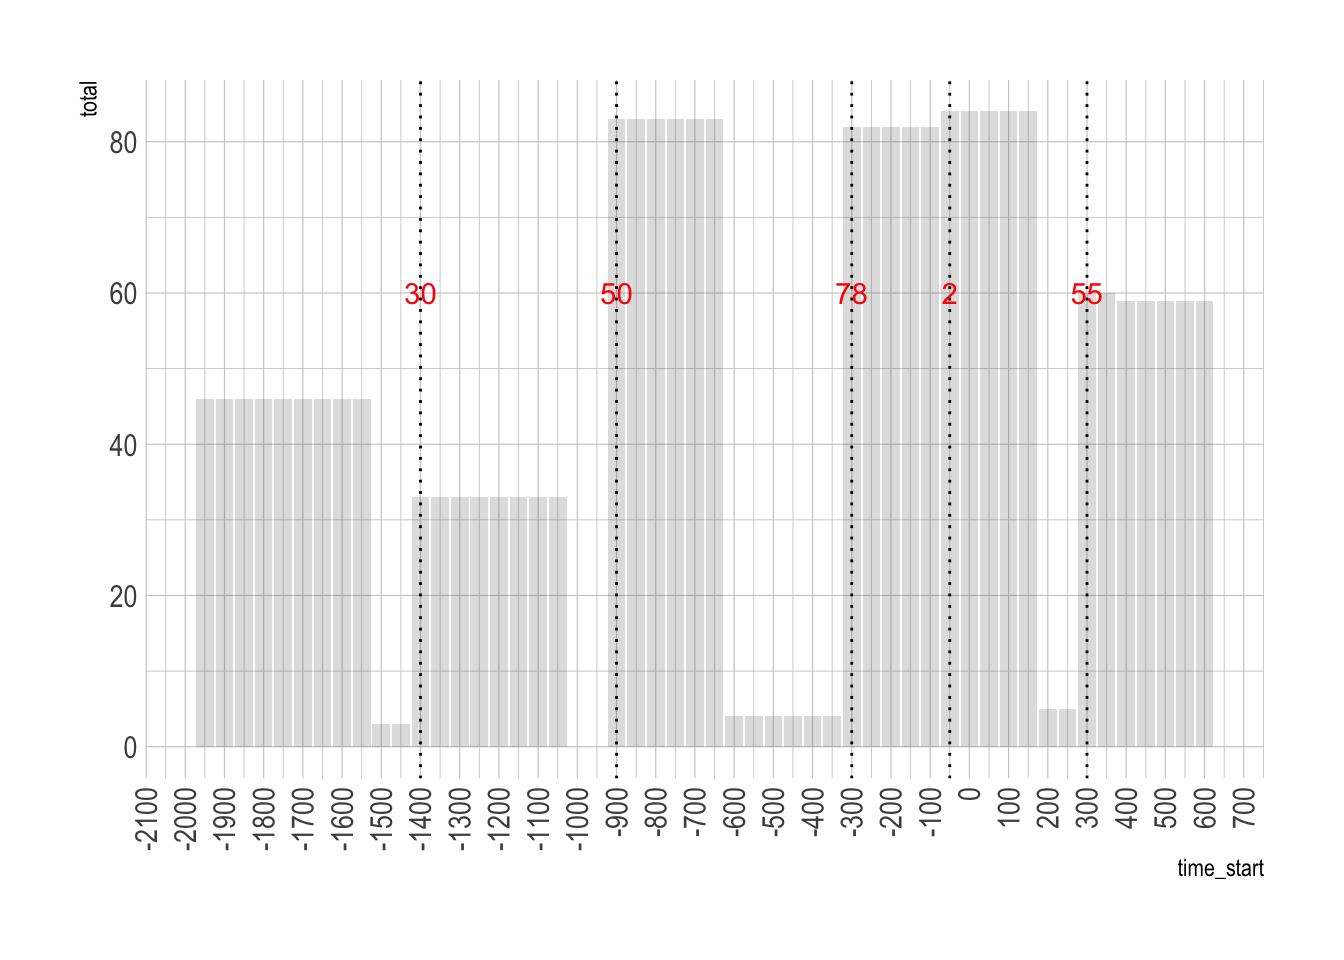
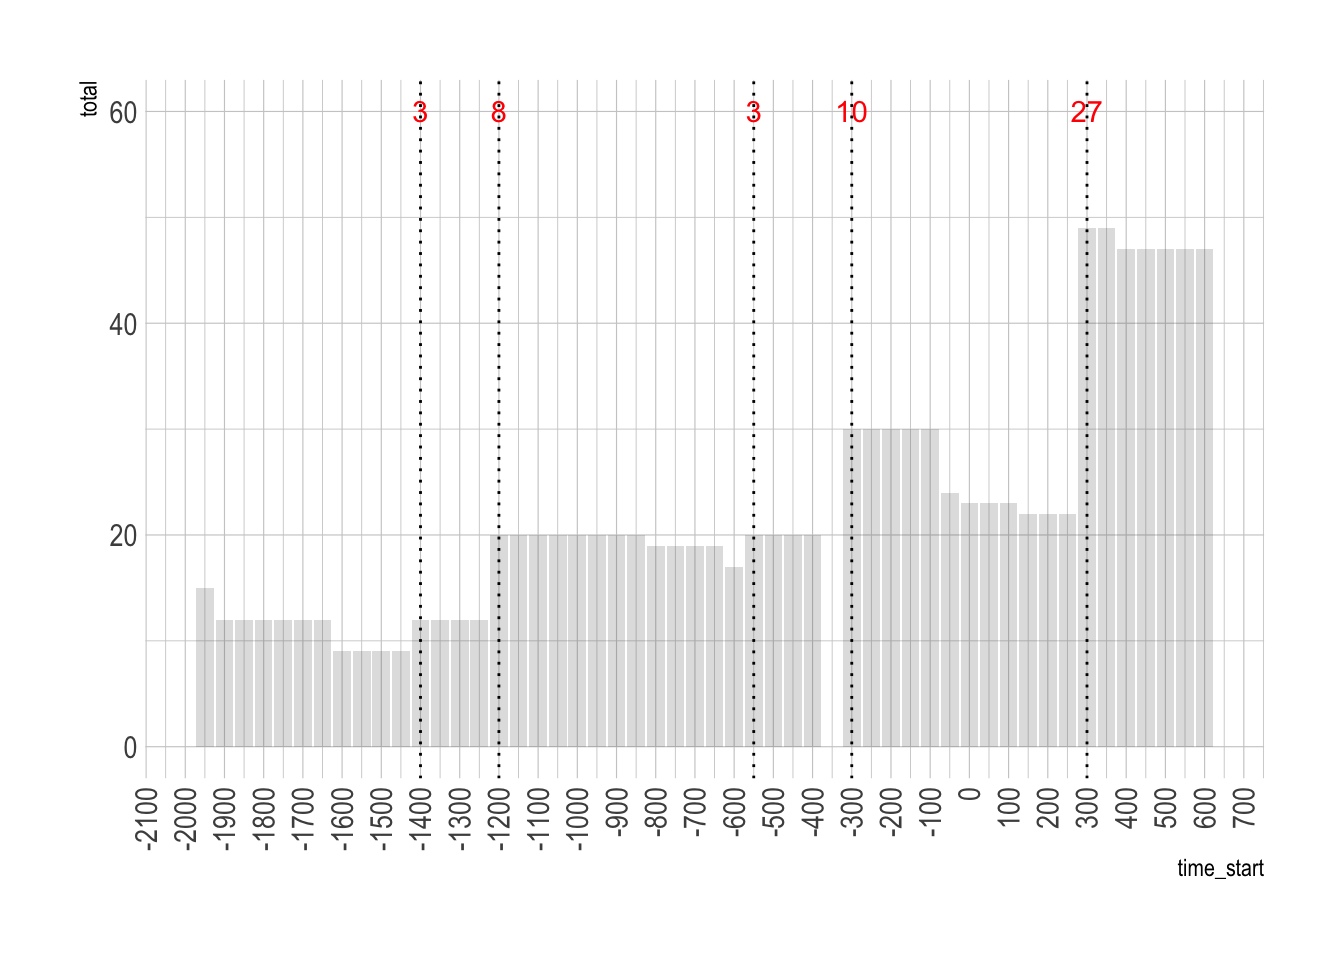
commit

diff --git a/03-demography/demo.html b/03-demography/demo.html
@@ -165,7 +165,7 @@ code span.wa { color: #60a0b0; font-weight: bold; font-style: italic; } /* Warni
 <details>
 <summary>Code</summary>
 <div class="sourceCode cell-code" id="cb2"><pre class="sourceCode r code-with-copy"><code class="sourceCode r"><span id="cb2-1"><a href="#cb2-1" aria-hidden="true" tabindex="-1"></a><span class="co"># load data</span></span>
-<span id="cb2-2"><a href="#cb2-2" aria-hidden="true" tabindex="-1"></a>sites <span class="ot">=</span> <span class="fu">readRDS</span>(<span class="st">"../data/tab/njs_sites_LONG_SF.rds"</span>)</span></code><button title="Copy to Clipboard" class="code-copy-button"><i class="bi"></i></button></pre></div>
+<span id="cb2-2"><a href="#cb2-2" aria-hidden="true" tabindex="-1"></a>sites <span class="ot">=</span> <span class="fu">readRDS</span>(<span class="st">"../data/tab/lcp_sites_LONG_SF.rds"</span>)</span></code><button title="Copy to Clipboard" class="code-copy-button"><i class="bi"></i></button></pre></div>
 </details>
 </div>
 <p>Count sites by Time Block</p>
@@ -192,27 +192,27 @@ code span.wa { color: #60a0b0; font-weight: bold; font-style: italic; } /* Warni
 <tbody>
 <tr class="odd">
 <td style="text-align: left;">-3100</td>
-<td style="text-align: right;">47</td>
+<td style="text-align: right;">13</td>
 </tr>
 <tr class="even">
 <td style="text-align: left;">-3050</td>
-<td style="text-align: right;">47</td>
+<td style="text-align: right;">13</td>
 </tr>
 <tr class="odd">
 <td style="text-align: left;">-3000</td>
-<td style="text-align: right;">46</td>
+<td style="text-align: right;">14</td>
 </tr>
 <tr class="even">
 <td style="text-align: left;">-2950</td>
-<td style="text-align: right;">46</td>
+<td style="text-align: right;">14</td>
 </tr>
 <tr class="odd">
 <td style="text-align: left;">-2900</td>
-<td style="text-align: right;">46</td>
+<td style="text-align: right;">14</td>
 </tr>
 <tr class="even">
 <td style="text-align: left;">-2850</td>
-<td style="text-align: right;">46</td>
+<td style="text-align: right;">14</td>
 </tr>
 </tbody>
 </table>
@@ -268,8 +268,8 @@ code span.wa { color: #60a0b0; font-weight: bold; font-style: italic; } /* Warni
 <col style="width: 15%">
 <col style="width: 13%">
 <col style="width: 11%">
-<col style="width: 11%">
 <col style="width: 8%">
+<col style="width: 11%">
 <col style="width: 8%">
 <col style="width: 14%">
 <col style="width: 15%">
@@ -279,8 +279,8 @@ code span.wa { color: #60a0b0; font-weight: bold; font-style: italic; } /* Warni
 <th style="text-align: left;">time_start</th>
 <th style="text-align: right;">backward</th>
 <th style="text-align: right;">forward</th>
-<th style="text-align: right;">removed</th>
 <th style="text-align: right;">added</th>
+<th style="text-align: right;">removed</th>
 <th style="text-align: right;">total</th>
 <th style="text-align: right;">new_sites</th>
 <th style="text-align: right;">pct_change</th>
@@ -289,63 +289,63 @@ code span.wa { color: #60a0b0; font-weight: bold; font-style: italic; } /* Warni
 <tbody>
 <tr class="odd">
 <td style="text-align: left;">-3050</td>
-<td style="text-align: right;">47</td>
-<td style="text-align: right;">46</td>
+<td style="text-align: right;">13</td>
+<td style="text-align: right;">10</td>
 <td style="text-align: right;">NA</td>
 <td style="text-align: right;">NA</td>
-<td style="text-align: right;">47</td>
+<td style="text-align: right;">13</td>
 <td style="text-align: right;">NA</td>
 <td style="text-align: right;">NA</td>
 </tr>
 <tr class="even">
 <td style="text-align: left;">-3000</td>
-<td style="text-align: right;">46</td>
-<td style="text-align: right;">46</td>
+<td style="text-align: right;">10</td>
+<td style="text-align: right;">14</td>
+<td style="text-align: right;">4</td>
+<td style="text-align: right;">3</td>
+<td style="text-align: right;">14</td>
 <td style="text-align: right;">1</td>
-<td style="text-align: right;">NA</td>
-<td style="text-align: right;">46</td>
-<td style="text-align: right;">-1</td>
-<td style="text-align: right;">-2.12766</td>
+<td style="text-align: right;">7.692308</td>
 </tr>
 <tr class="odd">
 <td style="text-align: left;">-2950</td>
-<td style="text-align: right;">46</td>
-<td style="text-align: right;">46</td>
+<td style="text-align: right;">14</td>
+<td style="text-align: right;">14</td>
 <td style="text-align: right;">NA</td>
 <td style="text-align: right;">NA</td>
-<td style="text-align: right;">46</td>
+<td style="text-align: right;">14</td>
 <td style="text-align: right;">0</td>
-<td style="text-align: right;">0.00000</td>
+<td style="text-align: right;">0.000000</td>
 </tr>
 <tr class="even">
 <td style="text-align: left;">-2900</td>
-<td style="text-align: right;">46</td>
-<td style="text-align: right;">46</td>
+<td style="text-align: right;">14</td>
+<td style="text-align: right;">14</td>
 <td style="text-align: right;">NA</td>
 <td style="text-align: right;">NA</td>
-<td style="text-align: right;">46</td>
+<td style="text-align: right;">14</td>
 <td style="text-align: right;">0</td>
-<td style="text-align: right;">0.00000</td>
+<td style="text-align: right;">0.000000</td>
 </tr>
 <tr class="odd">
 <td style="text-align: left;">-2850</td>
-<td style="text-align: right;">46</td>
-<td style="text-align: right;">46</td>
+<td style="text-align: right;">14</td>
+<td style="text-align: right;">14</td>
 <td style="text-align: right;">NA</td>
 <td style="text-align: right;">NA</td>
-<td style="text-align: right;">46</td>
+<td style="text-align: right;">14</td>
 <td style="text-align: right;">0</td>
-<td style="text-align: right;">0.00000</td>
+<td style="text-align: right;">0.000000</td>
 </tr>
 <tr class="even">
 <td style="text-align: left;">-2800</td>
-<td style="text-align: right;">46</td>
-<td style="text-align: right;">46</td>
+<td style="text-align: right;">14</td>
+<td style="text-align: right;">14</td>
 <td style="text-align: right;">NA</td>
 <td style="text-align: right;">NA</td>
-<td style="text-align: right;">46</td>
+<td style="text-align: right;">14</td>
 <td style="text-align: right;">0</td>
-<td style="text-align: right;">0.00000</td>
+<td style="text-align: right;">0.000000</td>
 </tr>
 </tbody>
 </table>
@@ -407,7 +407,7 @@ code span.wa { color: #60a0b0; font-weight: bold; font-style: italic; } /* Warni
 <span id="cb7-5"><a href="#cb7-5" aria-hidden="true" tabindex="-1"></a>  <span class="fu">filter</span>(time_start <span class="sc">&gt;</span> <span class="sc">-</span><span class="dv">2000</span>)</span>
 <span id="cb7-6"><a href="#cb7-6" aria-hidden="true" tabindex="-1"></a></span>
 <span id="cb7-7"><a href="#cb7-7" aria-hidden="true" tabindex="-1"></a><span class="co"># get the positive pct change</span></span>
-<span id="cb7-8"><a href="#cb7-8" aria-hidden="true" tabindex="-1"></a>per_change <span class="ot">=</span> njs_persistence <span class="sc">%&gt;%</span> </span>
+<span id="cb7-8"><a href="#cb7-8" aria-hidden="true" tabindex="-1"></a>per_change <span class="ot">=</span> lcp_persistence <span class="sc">%&gt;%</span> </span>
 <span id="cb7-9"><a href="#cb7-9" aria-hidden="true" tabindex="-1"></a>  <span class="fu">filter</span>(pct_change <span class="sc">&gt;</span> <span class="dv">0</span>)</span>
 <span id="cb7-10"><a href="#cb7-10" aria-hidden="true" tabindex="-1"></a></span>
 <span id="cb7-11"><a href="#cb7-11" aria-hidden="true" tabindex="-1"></a><span class="co"># create plot</span></span>
